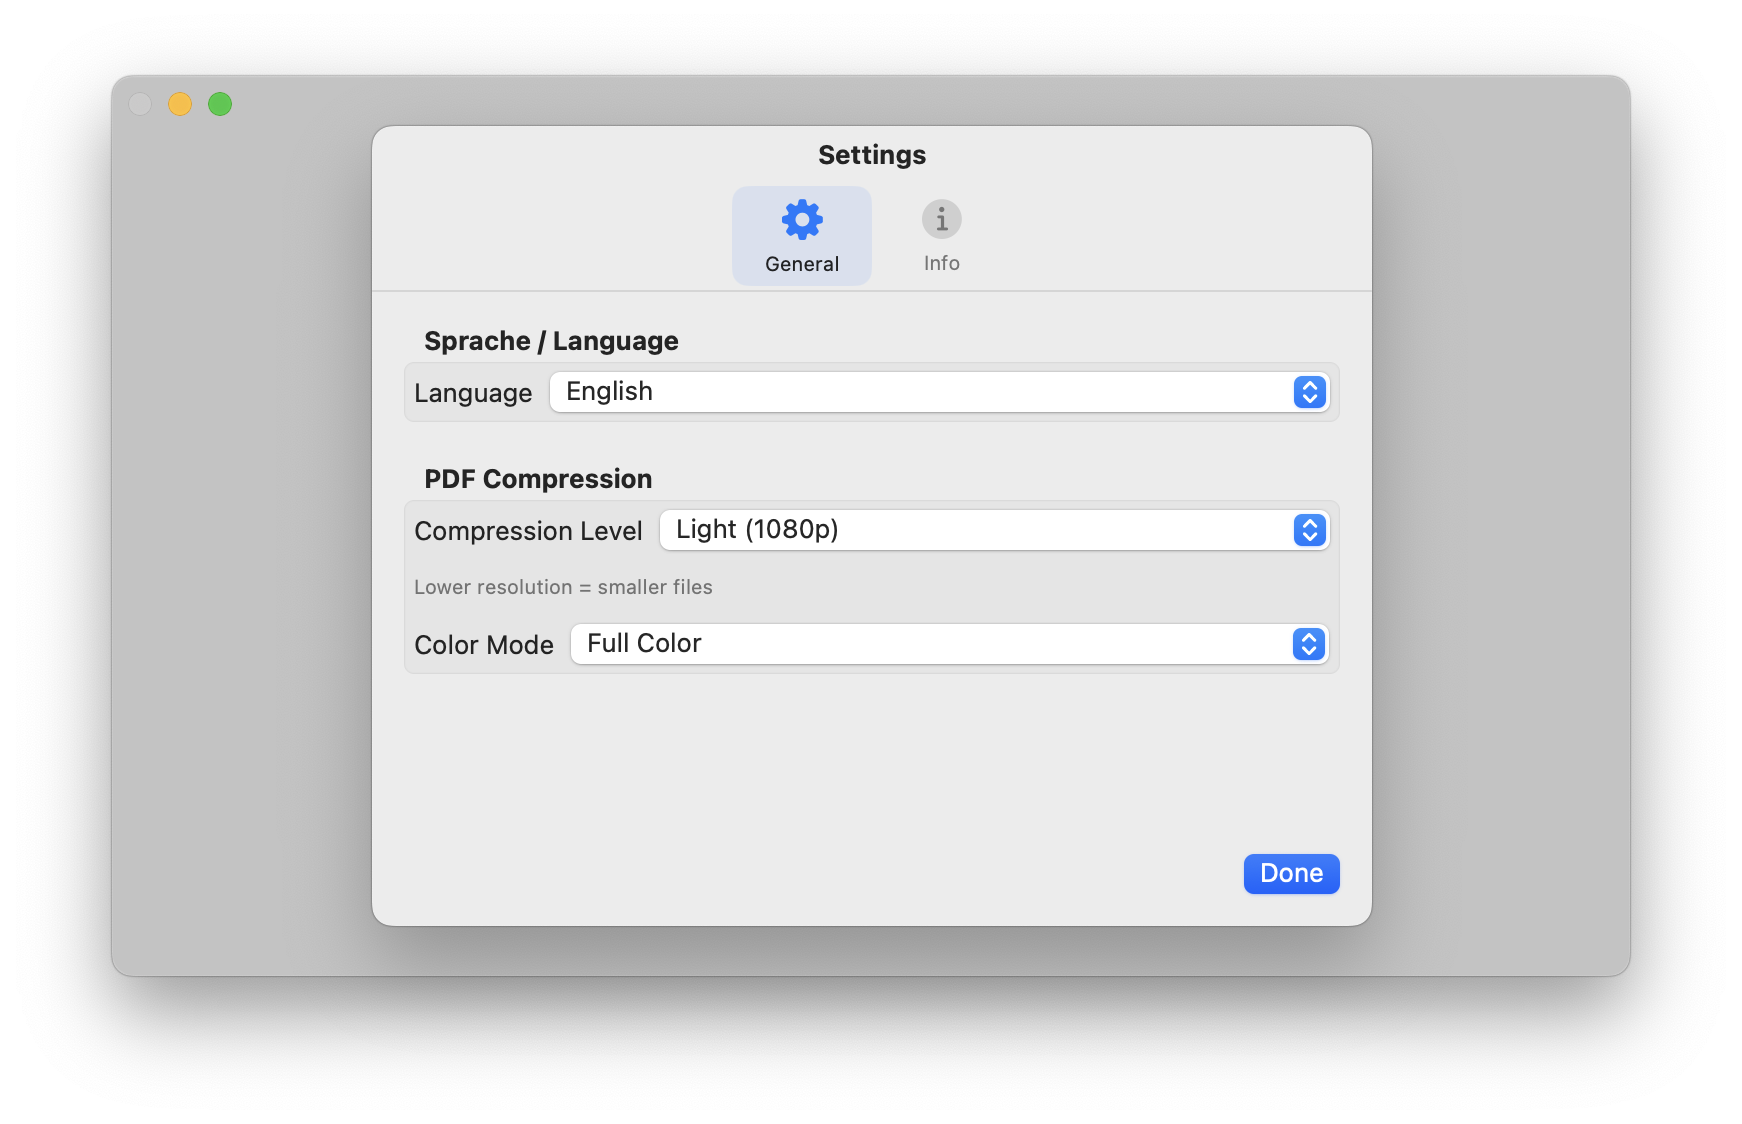
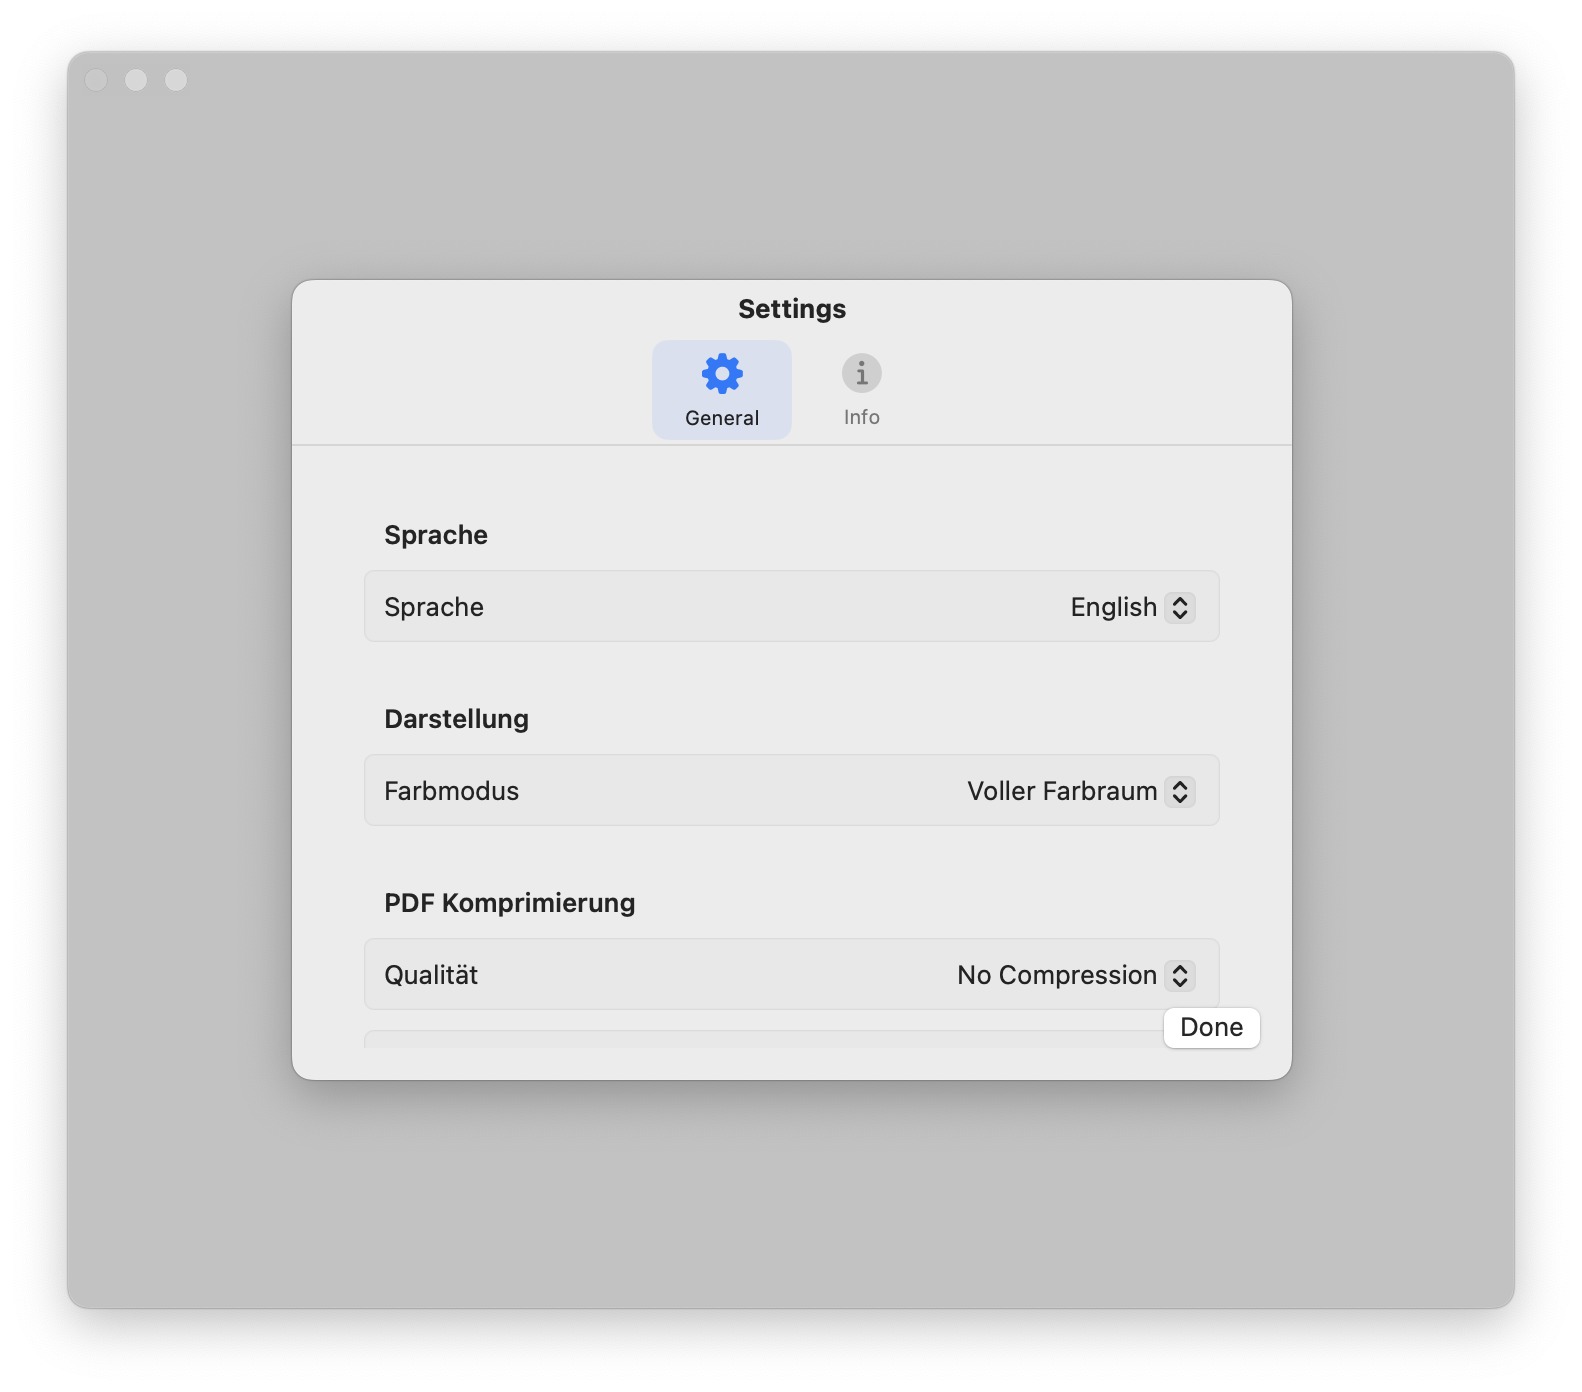
Adding Translations + Update Readme

diff --git a/README.md b/README.md
@@ -10,11 +10,13 @@ A lightweight, native macOS application for efficient PDF compression. Built wit
 
 - 🎯 Simple drag & drop interface
 - 🔧 Multiple compression levels
+  - High (Original quality)
+  - Minimal (1440p)
   - Light (1080p)
   - Medium (720p)
   - Strong (480p)
 - 🎨 Color mode options
-  - Full color
+  - Full color space
   - Grayscale
 - 🌍 Multilingual support (English, German)
 - 💻 Native macOS experience
@@ -29,8 +31,18 @@ A lightweight, native macOS application for efficient PDF compression. Built wit
   <img src="screenshots/settingsview.png" width="720">
 </p>
 <p align="center">
+  <img src="screenshots/compressingview.png" width="720">
+</p>
+<p align="center">
   <img src="screenshots/compressedview.png" width="720">
 </p>
+
+<p align="center">
+  <img src="screenshots/nocompressingview.png" width="720">
+</p>
+
+
+
 ## Installation
 
 1. Download the latest version from the [Releases](https://github.com/JulB3y/cpdf/releases) page
@@ -54,12 +66,14 @@ A lightweight, native macOS application for efficient PDF compression. Built wit
 ## Advanced Settings
 
 ### Compression Quality
+- **High**: Optimizes the PDF without visible quality loss
+- **Minimal (1440p)**: Perfect for high-quality presentations and documents with many images
 - **Light (1080p)**: Best for documents with high-quality images
 - **Medium (720p)**: Good balance between size and quality
 - **Strong (480p)**: Maximum compression, suitable for basic documents
 
 ### Color Modes
-- **Full Color**: Preserves original color information
+- **Full Color Space**: Preserves original color information
 - **Grayscale**: Converts to grayscale for smaller file sizes
 
 ## Development
@@ -76,7 +90,6 @@ Built with modern Apple technologies and best practices.
 1. Clone the repository
 2. Open the project in Xcode
 3. Build and run the project
-
 
 ## Credits
 - [CompressPDF](https://github.com/OpenToolKit/CompressPDF)
